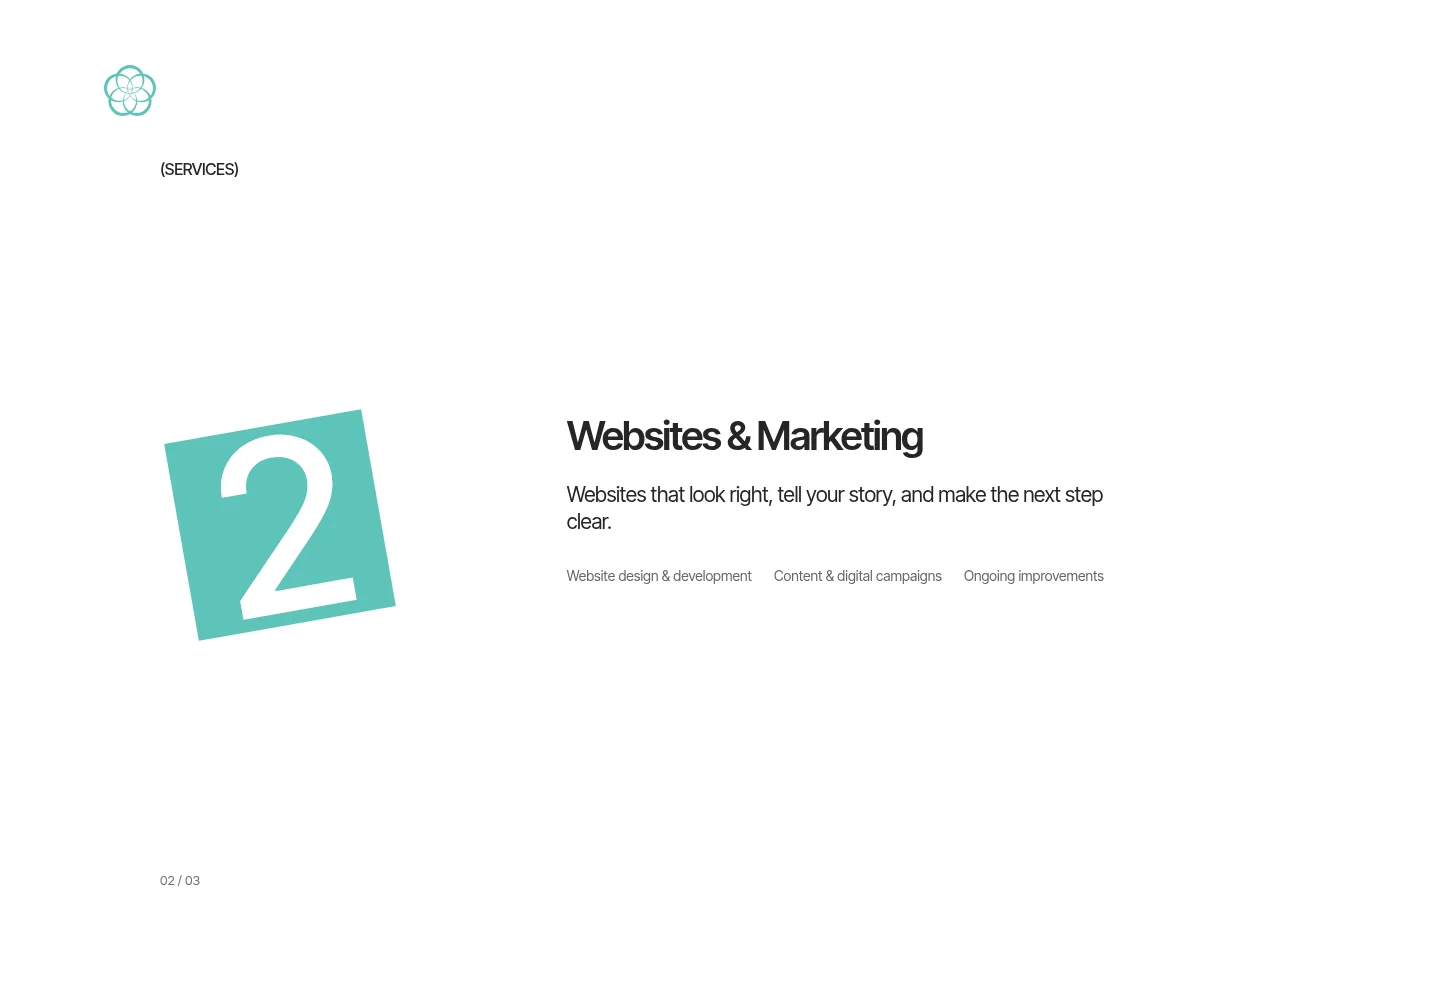
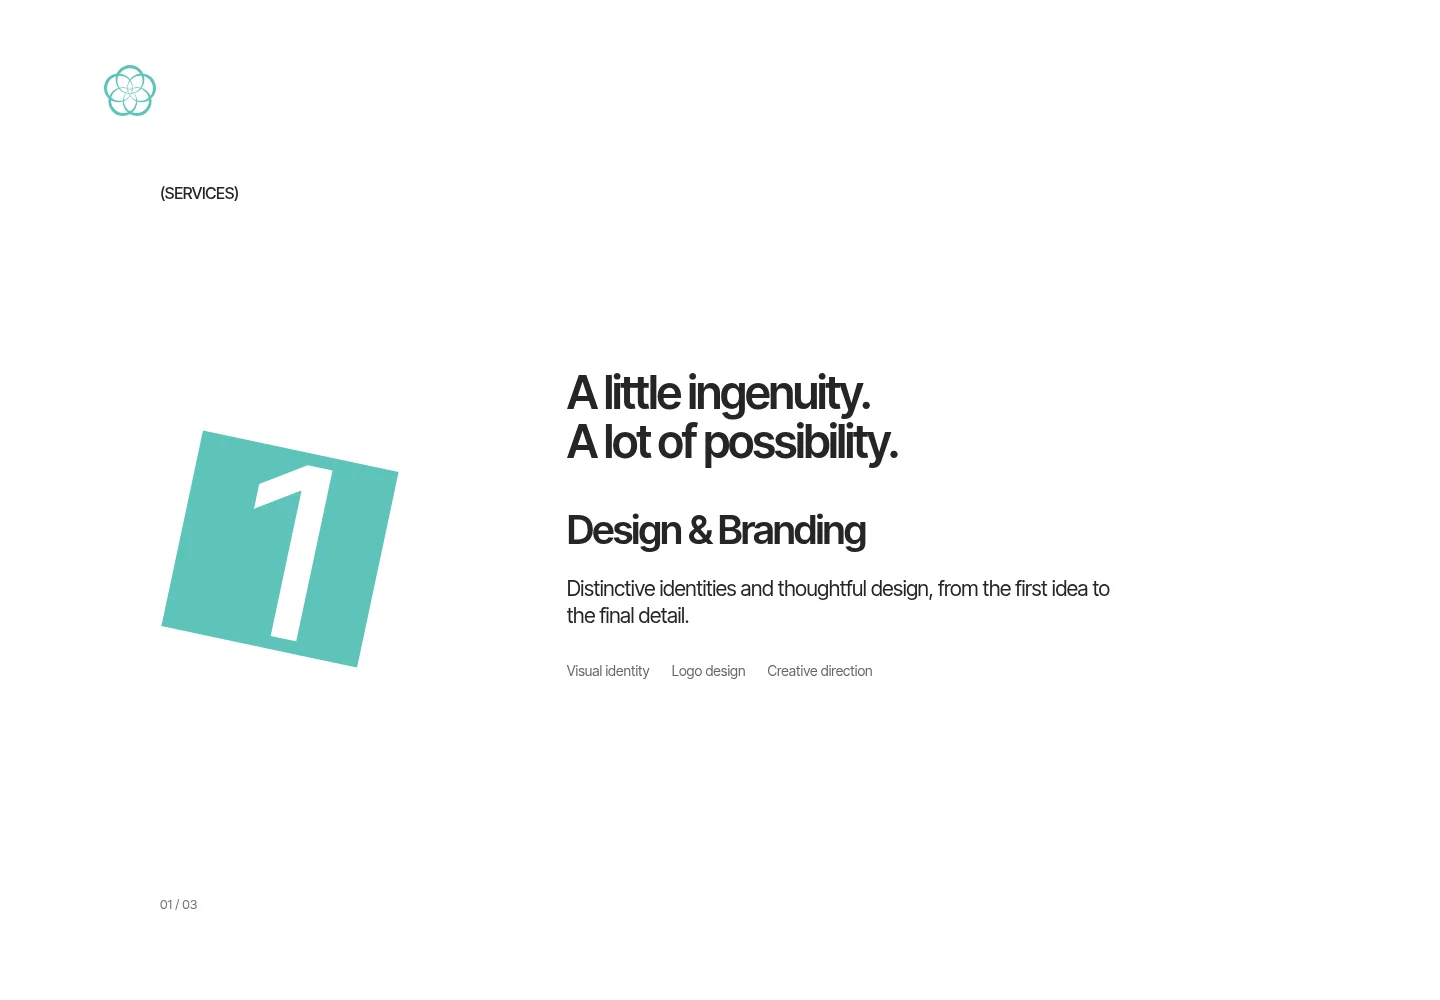
Consolidate services and tighten ordered website portfolio

diff --git a/src/app/globals.css b/src/app/globals.css
@@ -224,8 +224,8 @@ summary:focus-visible {
 .project-panel {
   position: relative;
   margin: 0 var(--gutter);
-  min-height: 640px;
-  aspect-ratio: 1.462;
+  min-height: 540px;
+  aspect-ratio: 1.95;
   border-radius: var(--radius);
   overflow: hidden;
   display: grid;
@@ -252,7 +252,7 @@ summary:focus-visible {
 .project-info {
   position: relative;
   z-index: 1;
-  padding: 60px 0 60px clamp(48px, 9.6vw, 138px);
+  padding: 40px 0 40px clamp(40px, 7vw, 100px);
   display: flex;
   flex-direction: column;
   align-items: flex-start;
@@ -266,11 +266,14 @@ summary:focus-visible {
   overflow-wrap: anywhere;
   text-wrap: balance;
 }
+.project-name-part {
+  white-space: nowrap;
+}
 .project-cta {
   display: flex;
   align-items: center;
   gap: 80px;
-  margin-top: 56px;
+  margin-top: 32px;
   font-size: 16px;
 }
 .project-cta .diamond {
@@ -294,12 +297,12 @@ summary:focus-visible {
 }
 .project-facts {
   display: grid;
-  gap: 22px;
+  gap: 16px;
   width: 100%;
   max-width: 340px;
   font-size: 16px;
   line-height: 1.15;
-  margin: 70px 0 0;
+  margin: 36px 0 0;
 }
 .project-facts > div {
   display: flex;
@@ -606,8 +609,15 @@ summary:focus-visible {
   padding-bottom: 0;
 }
 .services {
-  padding-top: 160px;
+  padding-top: 40px;
   padding-bottom: 80px;
+}
+.services-title {
+  font-size: clamp(34px, 3.2vw, 48px);
+  line-height: 1.05;
+  font-weight: 600;
+  margin-bottom: 44px;
+  letter-spacing: -0.045em;
 }
 /* The label and rotating number stay put as each service passes through. */
 .services-story {
@@ -1082,9 +1092,9 @@ fieldset:disabled .contact-submit {
   .project-stack .project-panel {
     position: sticky;
     top: 24px;
-    height: calc(100svh - 48px);
-    min-height: 640px;
-    max-height: 1100px;
+    height: clamp(560px, 68svh, 760px);
+    min-height: 560px;
+    max-height: 760px;
     aspect-ratio: auto;
     margin-bottom: 48px;
   }
@@ -1187,7 +1197,7 @@ fieldset:disabled .contact-submit {
     font-size: 46px;
   }
   .project-panel {
-    min-height: 660px;
+    min-height: 540px;
   }
   .section-content {
     padding-top: 110px;
@@ -1349,8 +1359,8 @@ fieldset:disabled .contact-submit {
     display: flex;
     flex-direction: column;
     align-items: stretch;
-    padding: 42px 26px 52px;
-    gap: 52px;
+    padding: 34px 26px 38px;
+    gap: 32px;
   }
   .project-info {
     padding: 0;
@@ -1371,8 +1381,8 @@ fieldset:disabled .contact-submit {
     font-size: 14px;
   }
   .project-facts {
-    margin-top: 44px;
-    gap: 16px;
+    margin-top: 28px;
+    gap: 14px;
     width: 100%;
     max-width: 100%;
     font-size: 14px;
@@ -1454,6 +1464,13 @@ fieldset:disabled .contact-submit {
     gap: 20px;
     min-height: 0;
     padding: 40px 0;
+  }
+  .services-title {
+    font-size: 30px;
+    margin-bottom: 32px;
+  }
+  .services {
+    padding-top: 24px;
   }
   .service-row h3 {
     font-size: 30px;

diff --git a/src/lib/projects.ts b/src/lib/projects.ts
@@ -1,16 +1,5 @@
 export const websiteProjects = [
   {
-    slug: "streamworks-designs",
-    name: "Streamworks Designs",
-    image: "streamworks",
-    sector: "Water features & landscape design",
-    domain: "streamworksdesigns.com",
-    url: "https://www.streamworksdesigns.com/",
-    tone: "charcoal",
-    description:
-      "A website for Streamworks Designs and its water features and landscape work.",
-  },
-  {
     slug: "gower-modern-law",
     name: "Gower Modern Law",
     image: "gower",
@@ -29,6 +18,17 @@ export const websiteProjects = [
     url: "https://nvfc.ca/",
     tone: "paper",
     description: "A community football club, brought together online.",
+  },
+  {
+    slug: "streamworks-designs",
+    name: "Streamworks Designs",
+    image: "streamworks",
+    sector: "Water features & landscape design",
+    domain: "streamworksdesigns.com",
+    url: "https://www.streamworksdesigns.com/",
+    tone: "charcoal",
+    description:
+      "A website for Streamworks Designs and its water features and landscape work.",
   },
   {
     slug: "access-to-justice-bc",

diff --git a/tests/browser/home.spec.ts b/tests/browser/home.spec.ts
@@ -107,7 +107,7 @@ test("desktop project surfaces overlap and release after the final project", asy
       ?.closest(".project-panel")
       ?.getAttribute("href"),
   );
-  expect(covering).toContain("gower-modern-law");
+  expect(covering).toContain("north-vancouver-fc");
   await page.locator("#branding").scrollIntoViewIfNeeded();
   expect((await cards.last().boundingBox())!.y).toBeLessThan(24);
   await expect(
@@ -187,7 +187,7 @@ test("services keep their visual in place and change it with the scrolling copy"
   );
   await page.emulateMedia({ reducedMotion: "reduce" });
   await expect(page.locator(".services-stage")).not.toBeVisible();
-  await expect(rows.first().getByRole("heading")).toBeVisible();
+  await expect(rows.first().getByRole("heading", { level: 3 })).toBeVisible();
 });
 
 test("contact validates, retains failed messages, and acknowledges accepted delivery", async ({

diff --git a/src/components/project-panel.tsx b/src/components/project-panel.tsx
@@ -19,7 +19,17 @@ export function ProjectPanel({
         <p className="eyebrow">
           ({application ? "Creative technology" : "Work"})
         </p>
-        <h3>{project.name}</h3>
+        <h3>
+          {project.name === "StrataCouncil.ca" ? (
+            <>
+              <span className="project-name-part">Strata</span>
+              <wbr />
+              <span className="project-name-part">Council.ca</span>
+            </>
+          ) : (
+            project.name
+          )}
+        </h3>
         <span className="project-cta">
           <span className="diamond">
             <Arrow />

diff --git a/src/app/page.tsx b/src/app/page.tsx
@@ -147,13 +147,6 @@ export default function Home() {
           className="services section-content"
           aria-labelledby="services-heading"
         >
-          <div className="section-introduction" data-reveal>
-            <p className="eyebrow">(Services)</p>
-            <h2 id="services-heading">
-              A little ingenuity.
-              <br />A lot of possibility.
-            </h2>
-          </div>
           <ServicesScroll services={services} />
         </section>
         <section

diff --git a/src/components/services-scroll.tsx b/src/components/services-scroll.tsx
@@ -50,6 +50,12 @@ export function ServicesScroll({ services }: { services: Service[] }) {
               0{i + 1}
             </span>
             <div>
+              {i === 0 && (
+                <h2 className="services-title" id="services-heading">
+                  A little ingenuity.
+                  <br />A lot of possibility.
+                </h2>
+              )}
               <h3>{service.name}</h3>
               <p>{service.copy}</p>
               <ul>

diff --git a/docs/design-reference.md b/docs/design-reference.md
@@ -23,3 +23,7 @@ Desktop project surfaces now have a 64px inset at a 1440px viewport (responsive 
 ## Compact identity carousel
 
 The expanded grid is replaced with a compact, continuously looping horizontal logo rail: five visible items at desktop width, three on tablet, two on mobile. Original artwork, colors, and names are retained. Arrows, Pause/Play, touch scrolling, hover/focus pauses, and the existing large preview provide control. Reduced-motion users get manual scrolling; no-JavaScript users get the original list and image links. Repeated visual copies are excluded from screen-reader navigation and keyboard tab order.
+
+## Services and work density
+
+The separate services introduction is removed; “A little ingenuity. A lot of possibility.” now sits above the first description within the scrolling service content. Website order: Gower Modern Law, North Vancouver FC, Streamworks Designs, Access to Justice BC, StrataCouncil.ca. Work panels are shorter (680px at a 1000px-tall desktop viewport, formerly 952px), with tighter internal spacing and the existing overlap preserved. StrataCouncil.ca can wrap between “Strata” and “Council.ca” while keeping both parts intact. Mobile cards also have reduced padding and gaps.
